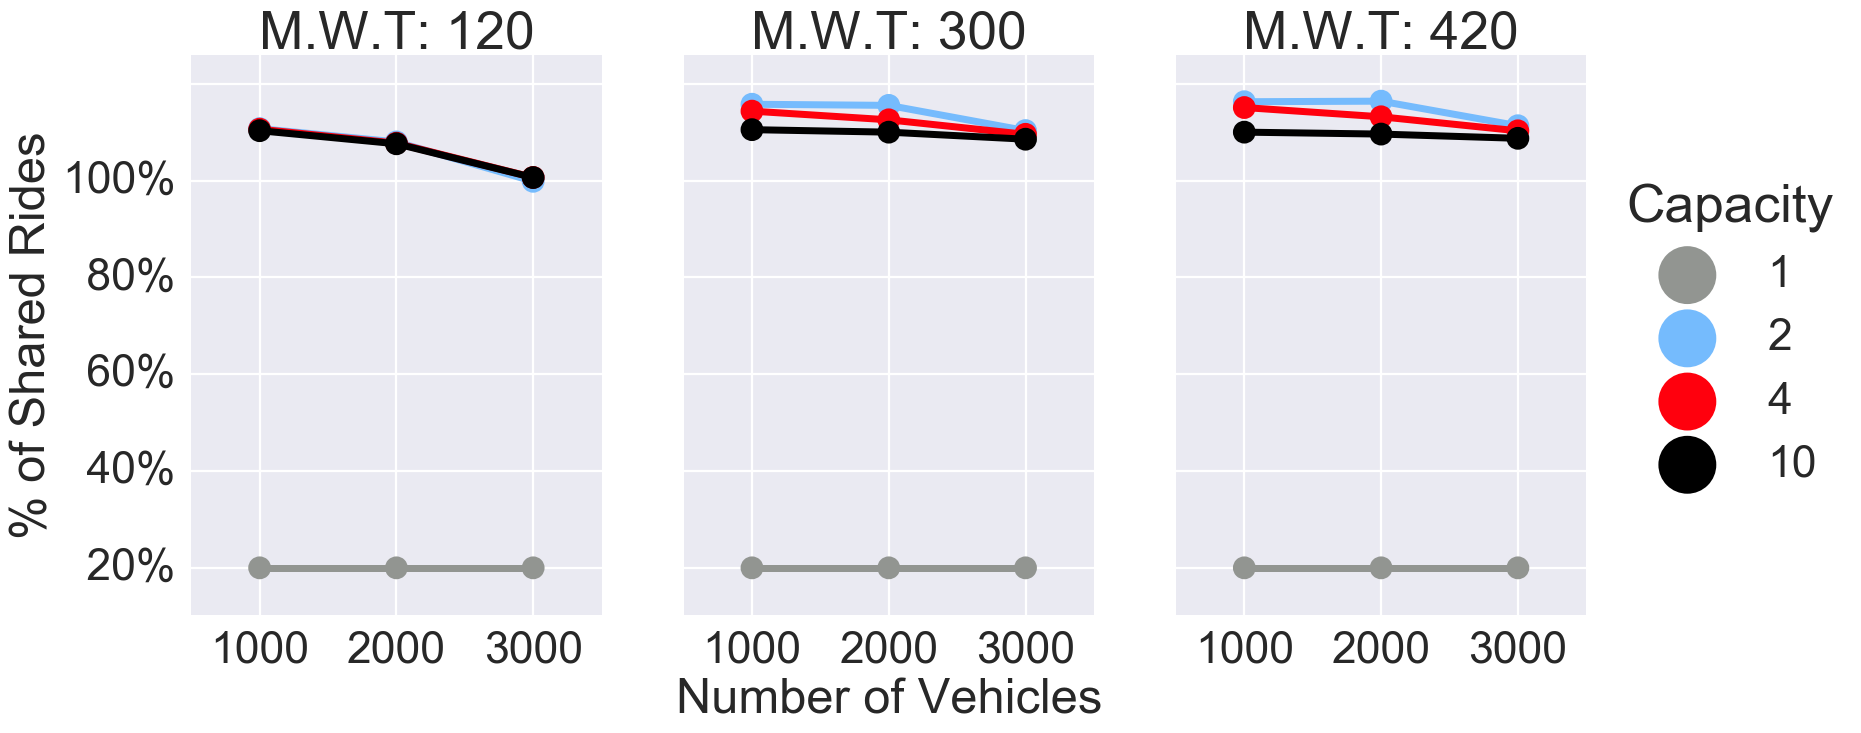
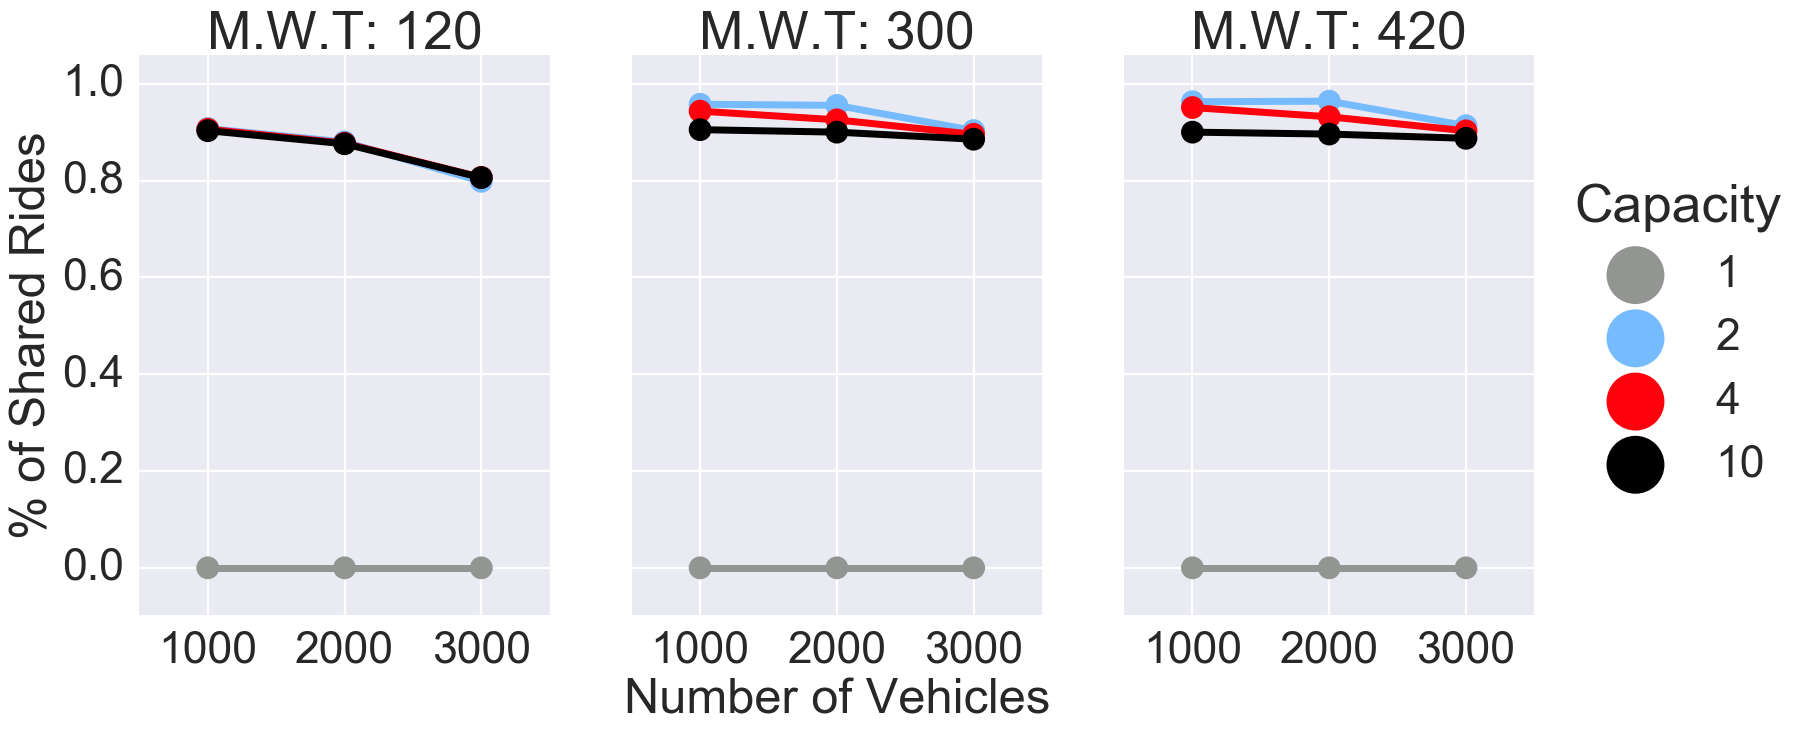
Checking plots

diff --git a/scripts/plot_metrics.py b/scripts/plot_metrics.py
@@ -318,10 +318,10 @@ def make_avg_plots(big_d, plot_type):
             if i == 1:
                 plt.ylabel(prettify(field))
                 if "%" in prettify(field):
-                    ax.set_ylim([0, 1])
+                    # ax.set_ylim([0, 1])
                     vals = ax.get_yticks()
-                    ax.set_yticklabels(
-                        ['{:3.0f}%'.format(x * 100) for x in vals])
+                    # ax.set_yticklabels(
+                    #     ['{:3.0f}%'.format(x * 100) for x in vals])
             else:
                 plt.ylabel("")
             if i == 2:
